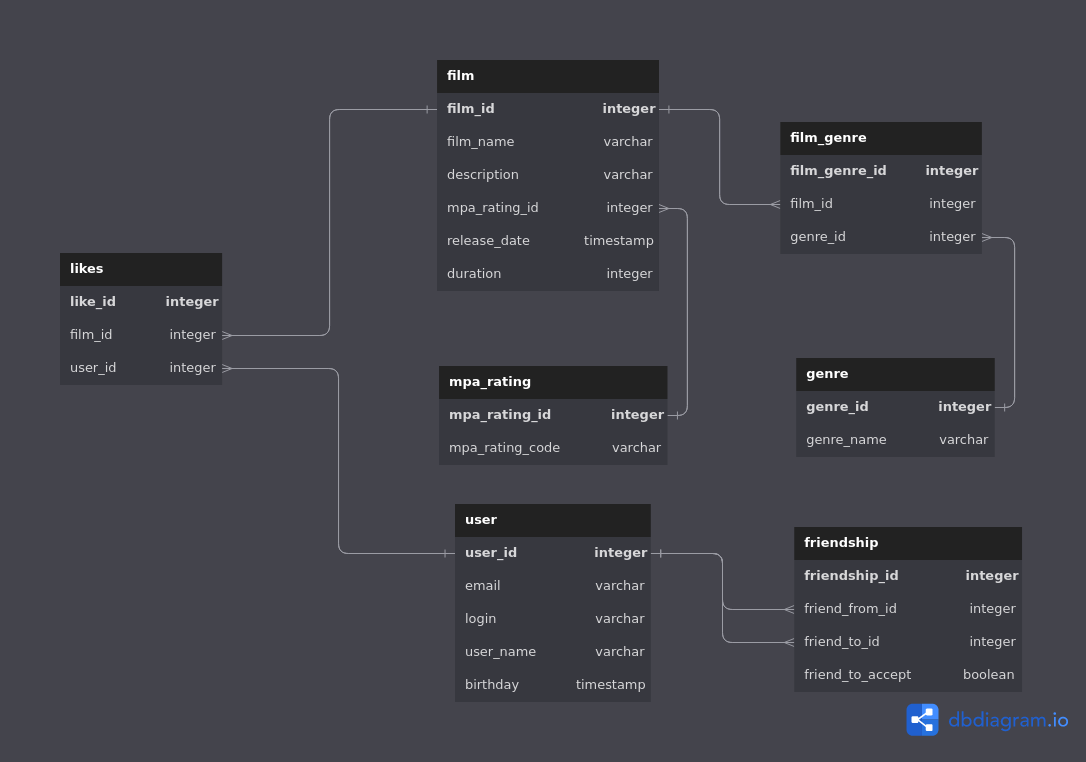
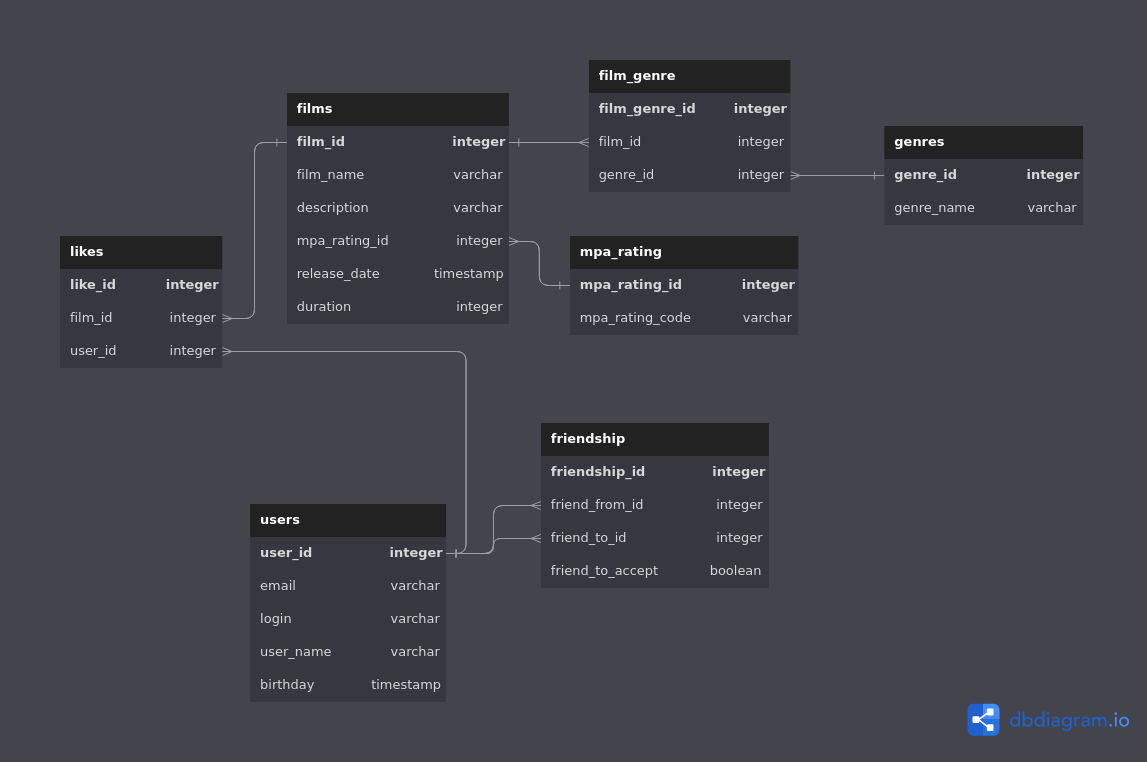
refactor table names

diff --git a/README.md b/README.md
@@ -6,12 +6,12 @@
 ### Получение списка всех фильмов 
 ```
 SELECT f.film_id, f.film_name, f.description, r.mpa_rating_name, f.release_date, f.duration   
-FROM film f
+FROM films f
 LEFT JOIN mpa_rating r ON f.mpa_rating_id = r.mpa_rating_id
 ```
 ### Получение списка всех пользователей
 ```
-SELECT * FROM user
+SELECT * FROM users
 ```
 ### Список общих подтвержденных друзей с другим пользователем
 ```
@@ -27,7 +27,7 @@ AND f2.friend_to_accept
 ### Получение списка 10 лучших фильмов
 ```
 SELECT f.film_id, f.film_name, COUNT(l.like_id) as count_like
-FROM film f
+FROM films f
 LEFT JOIN likes l ON f.film_id = l.film_id
 GROUP BY f.film_id
 ORDER BY count_like DESC
